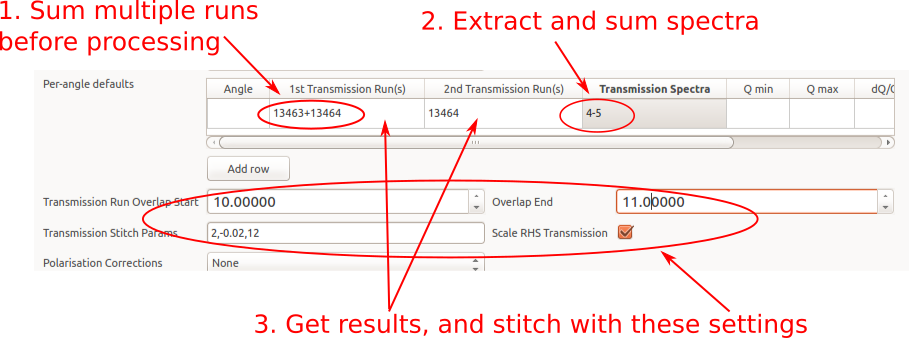
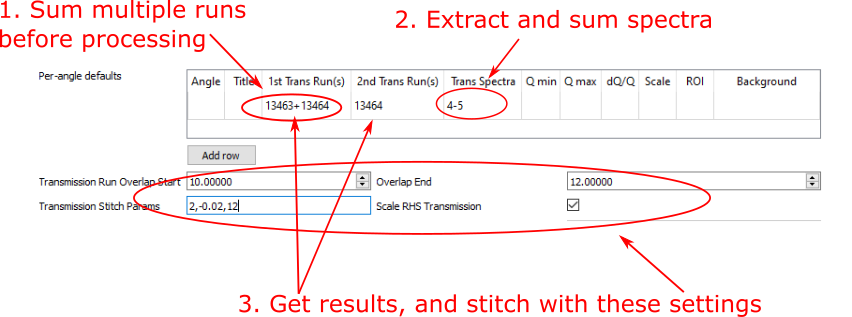
Update documentation for the title-matcher field
Re #33563

diff --git a/docs/source/interfaces/reflectometry/ISIS Reflectometry.rst b/docs/source/interfaces/reflectometry/ISIS Reflectometry.rst
@@ -805,16 +805,17 @@ global options that will be applied to all the rows in the table, whereas the
 row values will only be applicable to the specific row for which those options
 are defined.
 
-Per-Angle Defaults
-^^^^^^^^^^^^^^^^^^
+Sample and angle lookup table
+^^^^^^^^^^^^^^^^^^^^^^^^^^^^^
 
-The **Experiment Settings** tab allows some options to be specified on a
-per-angle basis, that is, to specify defaults that will apply only to runs with
-a specific angle. Note that matching angles are searched for within a tolerance
-of ``0.01``. In the per-angle defaults table, you can also specify a "wildcard"
-row, which will apply to all runs that don't also have a matching angle - just
-leave the angle blank to create a wildcard row. Only one wildcard row may
-exist.
+The **Experiment Settings** tab allows some options to be specified in a lookup
+table that will be applied to runs that match certain search criteria, namely the
+angle, and optionally also the run title. Matching angles are searched for within
+a tolerance of ``0.01``. The title field on the lookup table is a regular expression.
+
+In the lookup table, you can also specify a "wildcard" row, which will apply to all
+runs that don't also have a matching angle/title - just leave the angle and title
+blank to create a wildcard row. Only one wildcard row may exist.
 
 .. figure:: /images/ISISReflectometryInterface/workflow_settings.png
   :class: screenshot
@@ -822,9 +823,9 @@ exist.
   :align: center
   :alt: The per-angle defaults table
 
-  *The per-angle defaults table*
+  *The lookup table on the Experiment Settings tab*
 
-Entries in the per-angle defaults table are similar to the table on the Runs
+Entries in the lookup table are similar to the table on the Runs
 tab. Hover over a table cell to see a tooltip describing what the value is for.
 
 Default transmission runs can be specified and each input can take a
